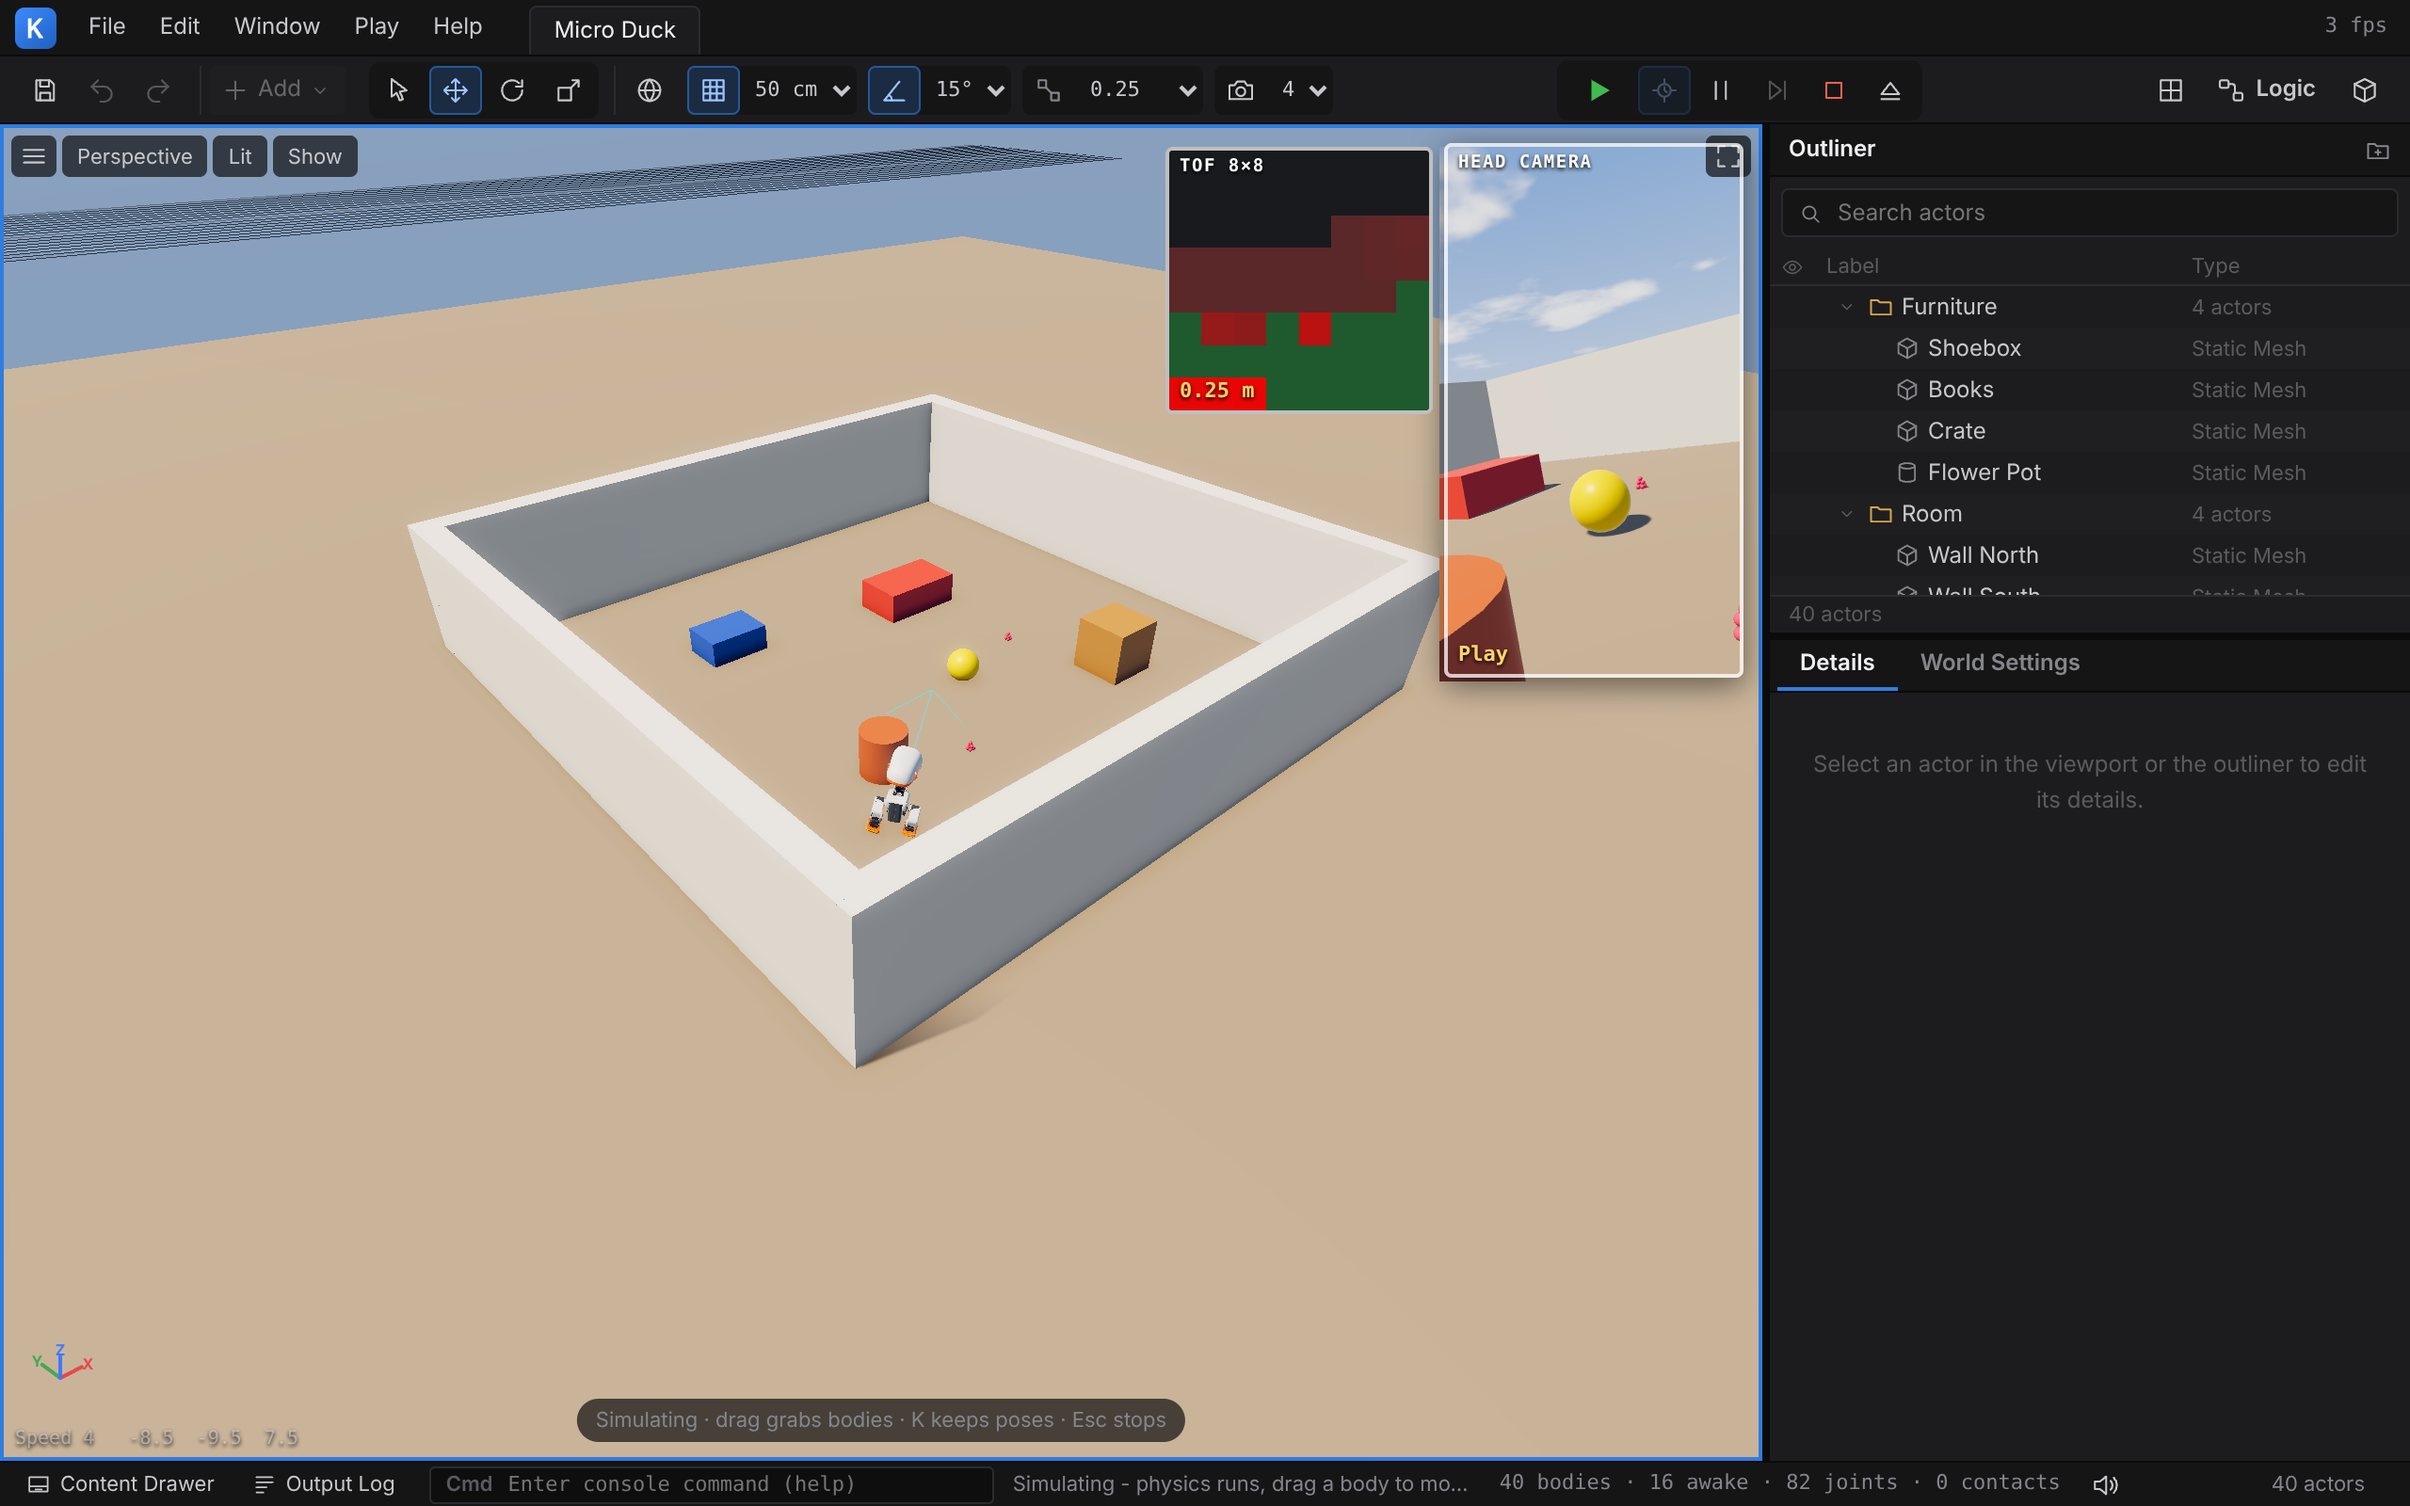
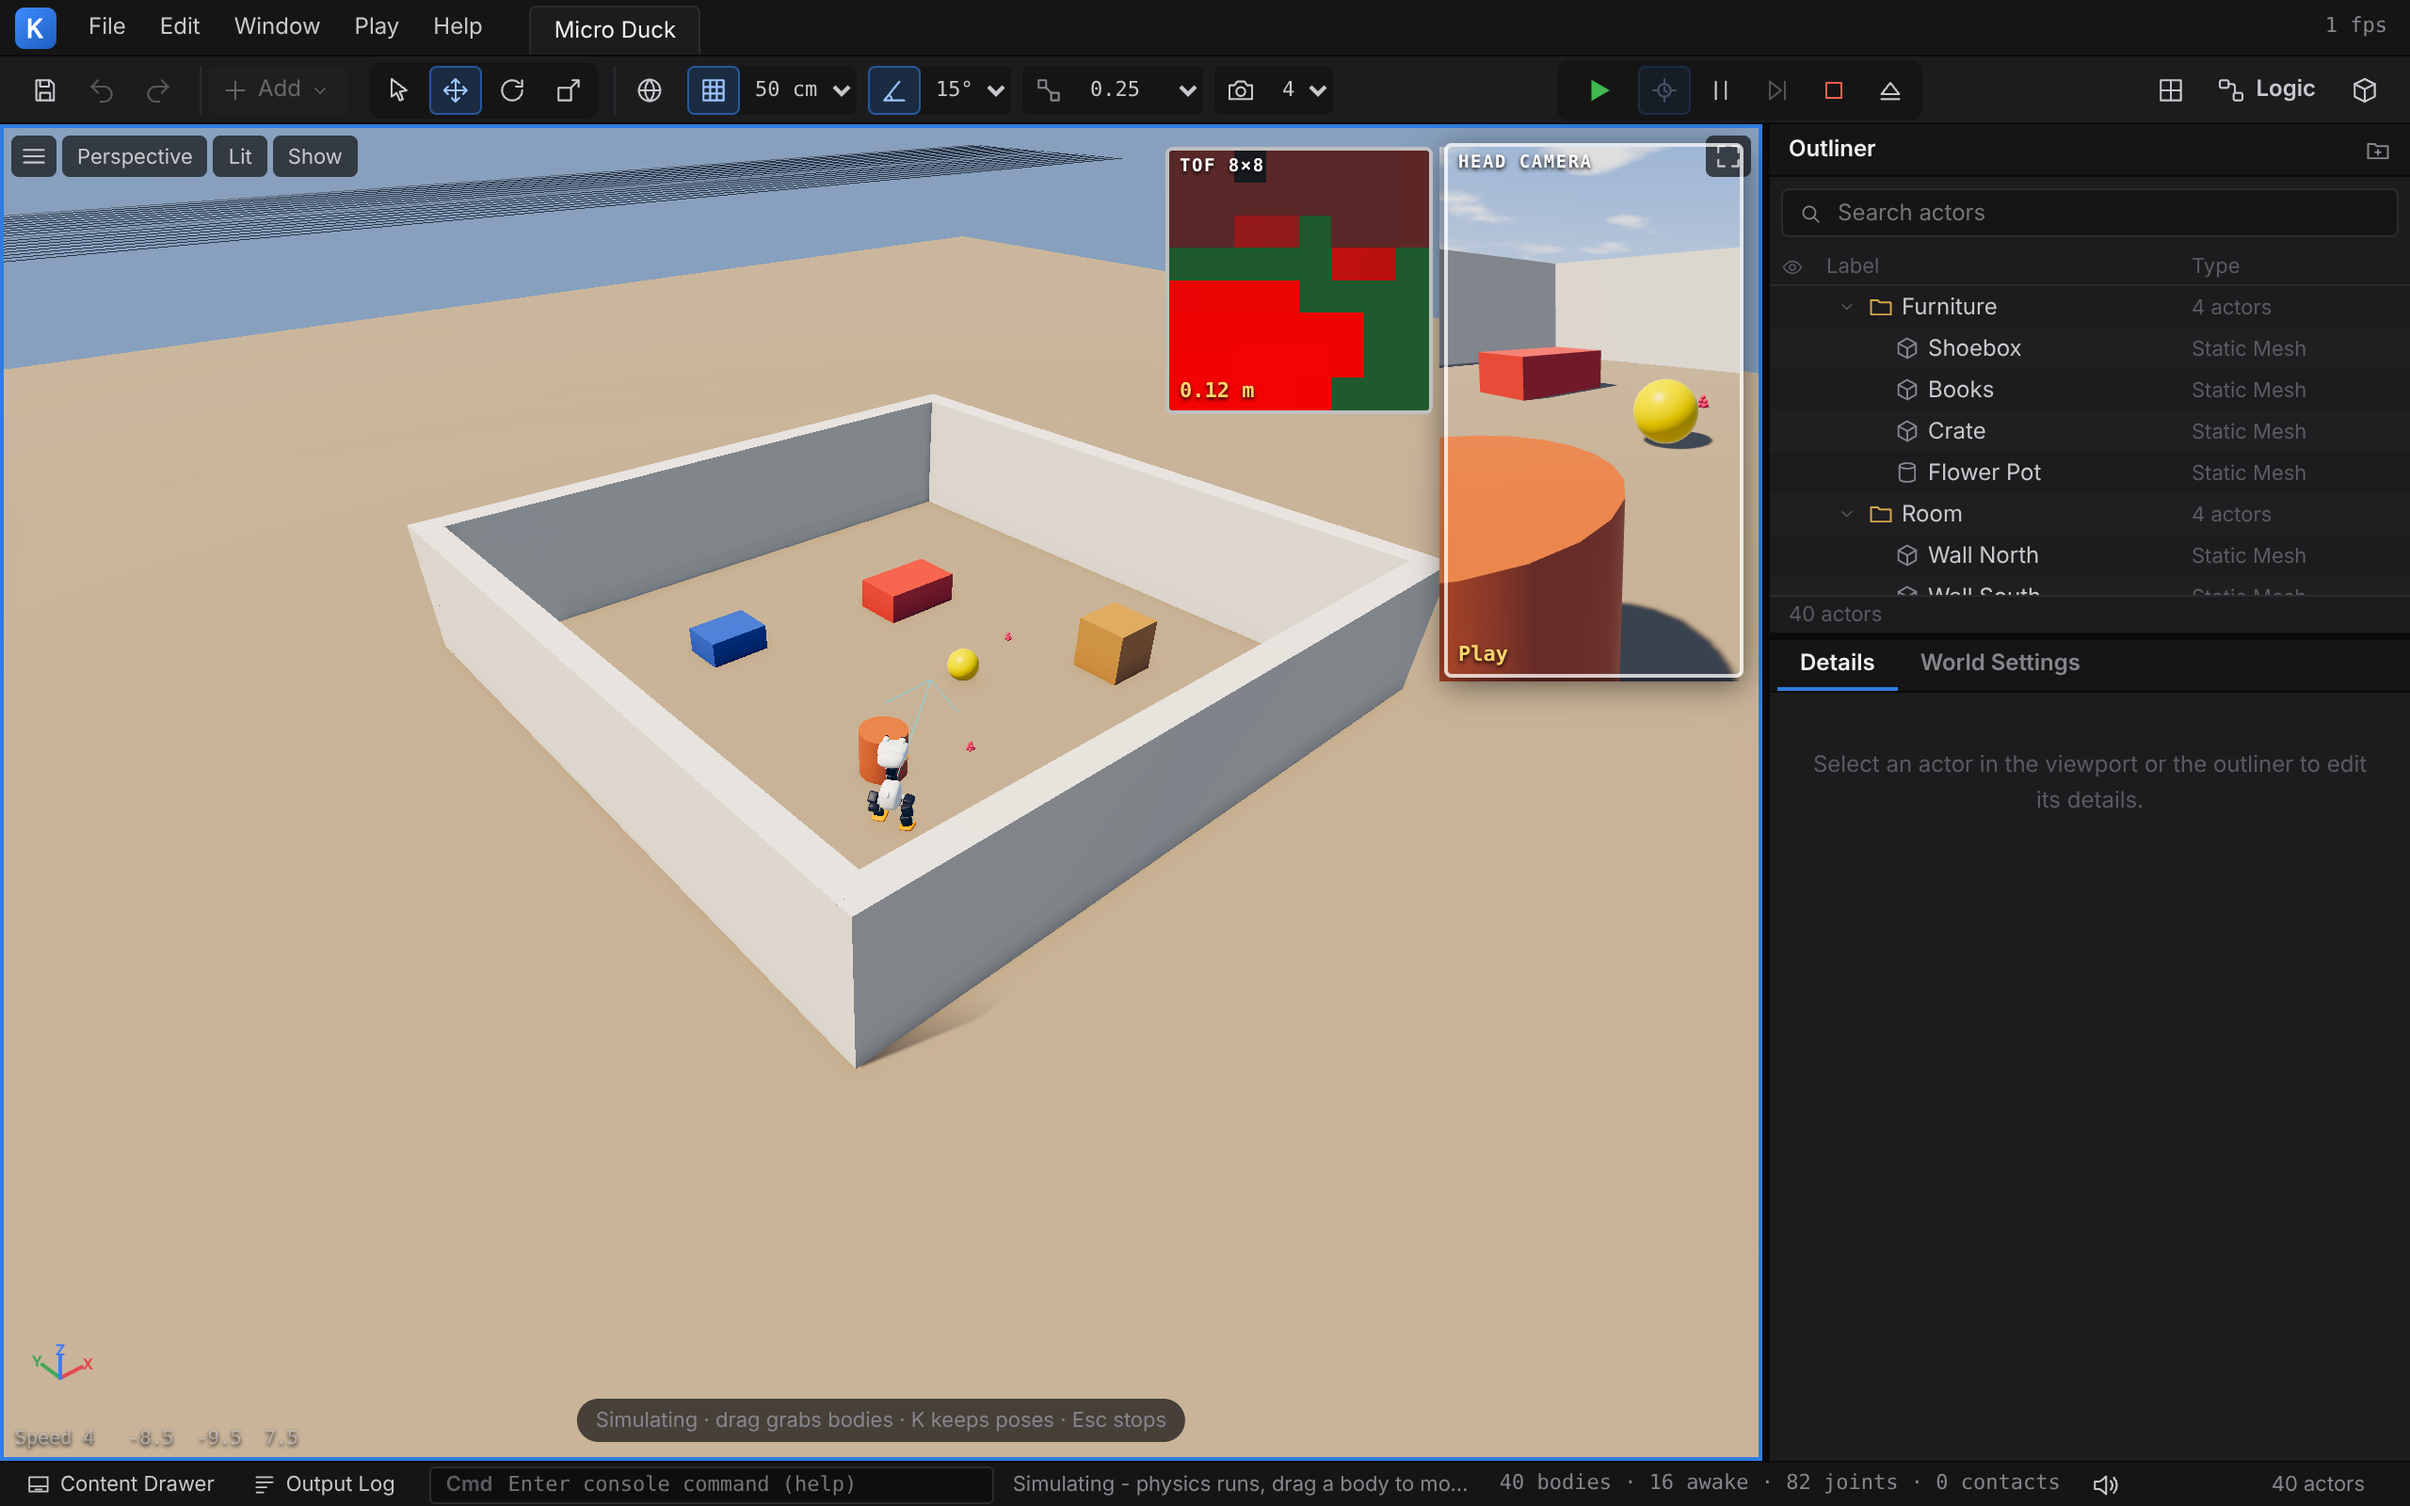
Book: the own duck in all pictures and on the cover, imprint as self-publisher, symbols the print font has
New screenshots (duck-level, duck-play, duck-close for chapter 13 and the front cover),
publisher line in the imprint, PAUSE/compile status without glyphs missing in DejaVu Serif.

Claude-Session: https://claude.ai/code/session_01K2YidUPFTJShcS1fG6cZzJ

Changed region(s): [[0.4688, 0.0938, 0.7188, 0.4688], [0.3438, 0.5, 0.4062, 0.5625]]

diff --git a/kern/tools/buch_umschlag.py b/kern/tools/buch_umschlag.py
@@ -23,7 +23,7 @@ ap.add_argument("--en", action="store_true")
 ap.add_argument("--out", default=None)
 ap.add_argument("--trim", default="7x10", help="trim size in inches")
 ap.add_argument("--spine", type=float, default=0, help="spine width in inches (default: from the page count)")
-ap.add_argument("--image", default="duck-level.png", help="the front picture (in kern/docs/buch/bilder)")
+ap.add_argument("--image", default="duck-close.png", help="the front picture (in kern/docs/buch/bilder)")
 a = ap.parse_args()
 
 W, H = (float(x) for x in a.trim.split("x"))
@@ -80,9 +80,9 @@ body {{ width: {TW}in; height: {TH}in; position: relative; overflow: hidden;
 .front h1 {{ position: absolute; left: 0.75in; top: 2.05in; margin: 0; font-size: 92pt; letter-spacing: -2pt; font-weight: bold; color: #fff }}
 .front .book {{ position: absolute; left: 0.8in; top: 3.45in; font-size: 24pt; color: #9cc4ff }}
 .front .sub {{ position: absolute; left: 0.8in; right: 0.6in; top: 4.0in; font-size: 14pt; line-height: 1.35; color: #d5e2f5 }}
-.front .shot {{ position: absolute; left: 0.75in; right: 0.55in; top: 5.05in; border-radius: 10px; overflow: hidden;
+.front .shot {{ position: absolute; left: 0.75in; right: 0.55in; top: 5.05in; height: 3.45in; border-radius: 10px; overflow: hidden;
   box-shadow: 0 0 0 1.5px #3d8bff, 0 10px 40px rgba(0,0,0,.6) }}
-.front .shot img {{ display: block; width: 100% }}
+.front .shot img {{ display: block; width: 100%; height: 100%; object-fit: cover; object-position: 50% 60% }}
 .front .author {{ position: absolute; left: 0.8in; bottom: 0.75in; font-size: 17pt; color: #fff }}
 .front .tag {{ position: absolute; left: 0.8in; bottom: 0.45in; font-size: 10pt; color: #9cc4ff; letter-spacing: .5pt }}
 .spine .inner {{ position: absolute; left: 50%; top: 50%; transform: translate(-50%, -50%) rotate(90deg);

diff --git a/kern/docs/buch/11-studio.md b/kern/docs/buch/11-studio.md
@@ -813,7 +813,7 @@ Editor deckt dann die Viewports ab.
 
 | Bereich | Inhalt |
 |---|---|
-| Toolbar | **Viewport** (zurück, Esc), **Compile** (F7, mit Status ✓ / ⚠ / ✖), **Save**, **Find** (Ctrl+F), Auswahl des Blueprints (Level oder Actor), **Templates**, **C++** (Export), Rechteckauswahl (Touch), Hilfe |
+| Toolbar | **Viewport** (zurück, Esc), **Compile** (F7, mit Statusanzeige OK / Warnung / Fehler), **Save**, **Find** (Ctrl+F), Auswahl des Blueprints (Level oder Actor), **Templates**, **C++** (Export), Rechteckauswahl (Touch), Hilfe |
 | My Blueprint | Graphen (Event Graph, State Machines), Variablen mit Typfarbe und Live-Wert beim Spielen, Events |
 | Graph | Tabs, Zoomstufen wie in Unreal, Knoten und Drähte |
 | Details | ausgewählter Knoten, Variable, Kommentar, State oder Transition |
@@ -927,7 +927,7 @@ Die Engine erkennt Touch, Maus mit Tastatur und Gamepad selbst und schaltet auf 
 ### 11.12.2 Play auf Touch-Geräten
 
 Play auf einem Touch-Gerät füllt den ganzen Bildschirm und schaltet auf einen Viewport. Oben links stehen
-**⟵ EXIT** (Stop) und **❚❚ PAUSE** bzw. **▶ RESUME**.
+**⟵ EXIT** (Stop) und **‖ PAUSE** bzw. **▶ RESUME**.
 
 Die Engine legt die Bedienelemente selbst an (`TouchControls`), die Seite zeichnet sie nur:
 

diff --git a/kern/docs/book/11-studio.md b/kern/docs/book/11-studio.md
@@ -816,7 +816,7 @@ covers the viewports.
 
 | Area | Content |
 |---|---|
-| Toolbar | **Viewport** (back, Esc), **Compile** (F7, with status ✓ / ⚠ / ✖), **Save**, **Find** (Ctrl+F), Blueprint selector (level or actor), **Templates**, **C++** (export), marquee selection (touch), help |
+| Toolbar | **Viewport** (back, Esc), **Compile** (F7, with a status of OK / warning / error), **Save**, **Find** (Ctrl+F), Blueprint selector (level or actor), **Templates**, **C++** (export), marquee selection (touch), help |
 | My Blueprint | graphs (Event Graph, state machines), variables with type color and live value while playing, events |
 | Graph | tabs, zoom levels as in Unreal, nodes and wires |
 | Details | selected node, variable, comment, state or transition |
@@ -931,7 +931,7 @@ used one (`InputArbiter` in `kern/src/game/touch.cpp`, following SpawnCity's rul
 ### 11.12.2 Play on touch devices
 
 Play on a touch device fills the whole screen and switches to a single viewport. At the top left are
-**⟵ EXIT** (Stop) and **❚❚ PAUSE** or **▶ RESUME**.
+**⟵ EXIT** (Stop) and **‖ PAUSE** or **▶ RESUME**.
 
 The engine creates the controls itself (`TouchControls`); the page merely draws them:
 

diff --git a/kern/docs/buch/13-micro-duck.md b/kern/docs/buch/13-micro-duck.md
@@ -192,6 +192,8 @@ mit Vertexfarben. Pollens 3D-Modelle (CC BY-NC-SA 4.0, nicht kommerziell) sind n
 übernommen sind nur Messdaten (die Gliedrahmen und die groben Kollisionshüllen), damit Sohlen,
 Servos und Schnabel dort sitzen, wo sie beim echten Roboter sitzen.
 
+![Die Micro Duck in Kerns eigener Gestaltung](bilder/duck-close.png)
+
 ### Rollschuhe
 
 `micro_duck_actors(true)` baut die Rollen-Variante aus `robot_groundcontact_rollers_backlash.xml`

diff --git a/kern/docs/buch/00-impressum.md b/kern/docs/buch/00-impressum.md
@@ -4,8 +4,8 @@
 
 ## Impressum und Rechte
 
-**Autor und Rechteinhaber:** Christian Heinrich Hohlfeld
-Gerhart-Hauptmann-Weg 5, 78464 Konstanz, Deutschland
+**Autor, Herausgeber und Rechteinhaber (Selbstverlag):** Christian Heinrich Hohlfeld\
+Gerhart-Hauptmann-Weg 5, 78464 Konstanz, Deutschland\
 ORCID: [0009-0003-6634-9045](https://orcid.org/0009-0003-6634-9045)
 
 © 2026 Christian Heinrich Hohlfeld. Alle Rechte vorbehalten.

diff --git a/kern/docs/book/00-imprint.md b/kern/docs/book/00-imprint.md
@@ -4,8 +4,8 @@
 
 ## Imprint and Rights
 
-**Author and rights holder:** Christian Heinrich Hohlfeld
-Gerhart-Hauptmann-Weg 5, 78464 Konstanz, Germany
+**Author, publisher and rights holder (self-published):** Christian Heinrich Hohlfeld\
+Gerhart-Hauptmann-Weg 5, 78464 Konstanz, Germany\
 ORCID: [0009-0003-6634-9045](https://orcid.org/0009-0003-6634-9045)
 
 © 2026 Christian Heinrich Hohlfeld. All rights reserved.

diff --git a/kern/docs/book/13-micro-duck.md b/kern/docs/book/13-micro-duck.md
@@ -190,6 +190,8 @@ models (CC BY-NC-SA 4.0, non-commercial) are not included; only measurement data
 frames and the coarse collision hulls), so that soles, servos and beak sit where they sit on the
 real robot.
 
+![The Micro Duck in Kern's own design](../buch/bilder/duck-close.png)
+
 ### Roller skates
 
 `micro_duck_actors(true)` builds the roller variant from `robot_groundcontact_rollers_backlash.xml`
